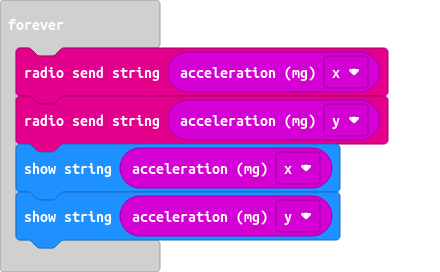
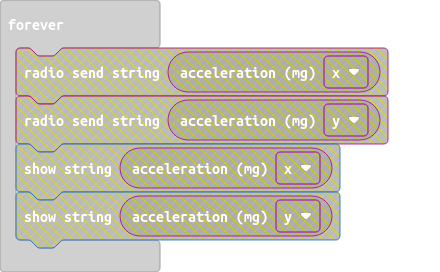
Removed forever as this was messing up commands

diff --git a/main.ts b/main.ts
@@ -16,8 +16,5 @@ input.onGesture(Gesture.TiltRight, function () {
 })
 radio.setGroup(50)
 basic.forever(function () {
-    radio.sendString("" + (input.acceleration(Dimension.X)))
-    radio.sendString("" + (input.acceleration(Dimension.Y)))
-    basic.showString("" + (input.acceleration(Dimension.X)))
-    basic.showString("" + (input.acceleration(Dimension.Y)))
+	
 })
